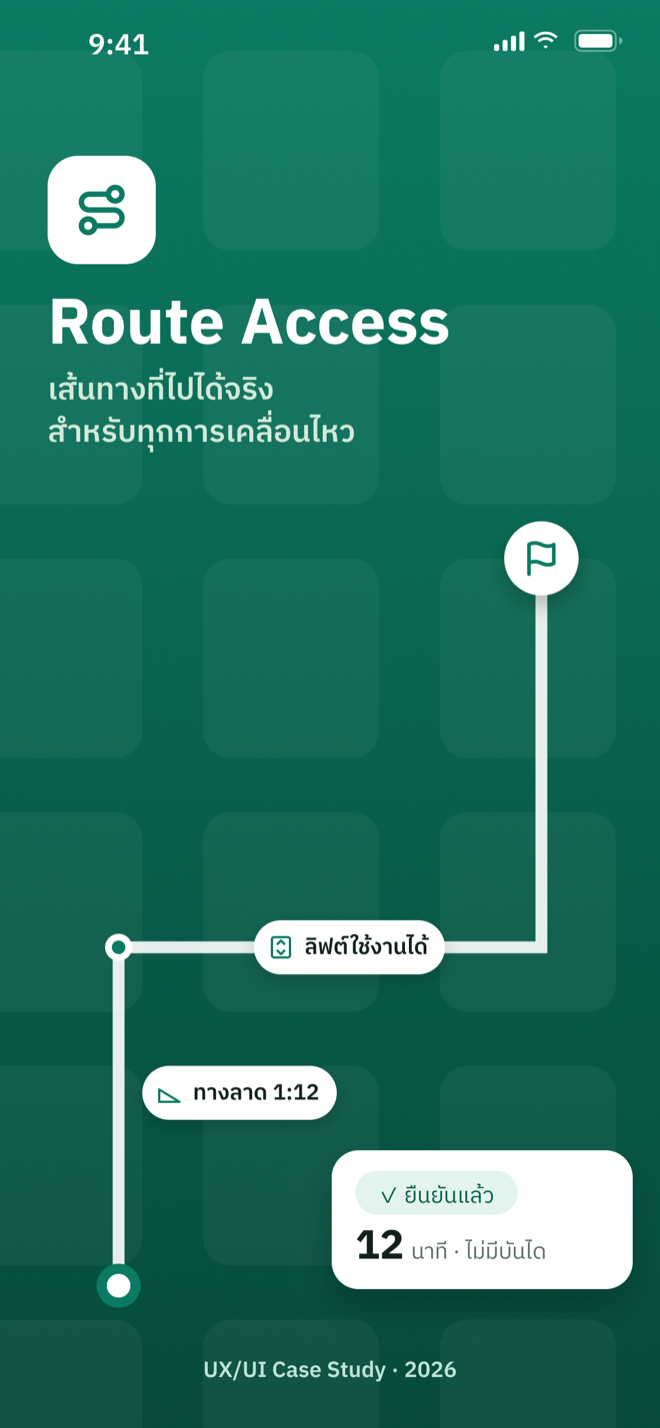
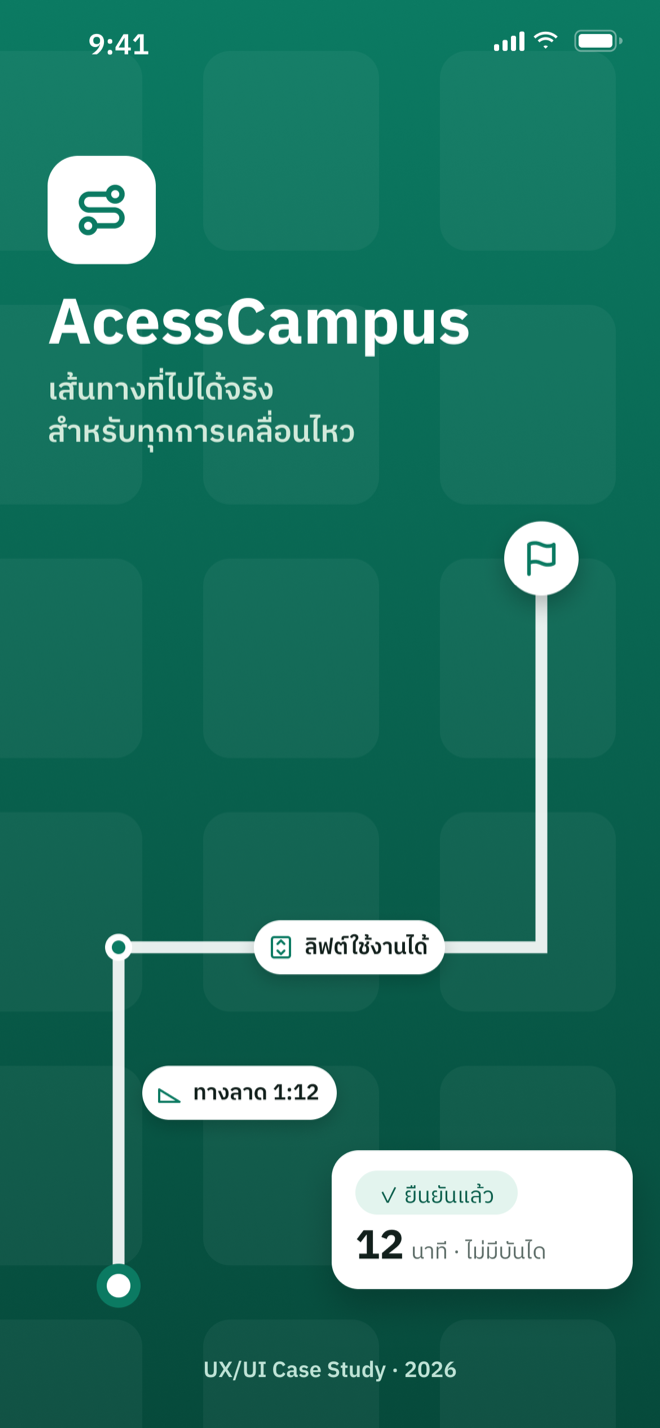
feat: complete design cards and add real work covers
- RoomieMatch: kind, year, blurb and Canva case study
- AcessCampus: new cover with the app name
- design section heading is now Case Studies; drop Open in Figma
- real 4:3 covers and alt text for both case studies

Changed region(s): [[0.0606, 0.1849, 0.7273, 0.2465]]

diff --git a/lib/designs.ts b/lib/designs.ts
@@ -3,8 +3,6 @@ export type Design = {
   title: string;
   /** prototype link, played in the phone */
   figma: string;
-  /** design file for "Open in Figma", when it differs from the prototype */
-  file?: string;
   /** research board or case study outside Figma */
   caseStudy?: string;
   tags: string[];
@@ -18,16 +16,16 @@ export const designs: Design[] = [
     slug: 'roomiematch',
     title: 'RoomieMatch',
     figma: 'https://www.figma.com/proto/XflnePuAHp00z4TEDtzwJx/RoomieMatch?node-id=25-4479&starting-point-node-id=25%3A4479',
+    caseStudy: 'https://canva.link/ag8ocmj1n9o4ffd',
     tags: ['UX/UI', 'Mobile app', 'Figma prototype'],
-    blurb: '[one line: what the app does and who it is for]',
-    year: '[year?]',
-    kind: '[class / personal / client?]',
+    blurb: 'A roommate-matching app for people looking for a roommate: find someone who fits, then find a place together.',
+    year: '2024–2025',
+    kind: 'Personal self-learning project · team of 2',
   },
   {
     slug: 'accesscampus',
     title: 'AcessCampus',
     figma: 'https://www.figma.com/proto/cw83ZV6F7lFHe9VYC0Roes/AcessCampus?node-id=31-55&starting-point-node-id=31%3A55',
-    file: 'https://www.figma.com/design/cw83ZV6F7lFHe9VYC0Roes/AcessCampus?node-id=39-5132',
     caseStudy: 'https://canva.link/e0inqgga5kdhpws',
     tags: ['UX research', 'Accessibility', 'Figma prototype'],
     blurb: 'Route for Everyone: campus routes for wheelchair users and anyone who needs a step-free way, with ramps, lifts and stairs shown before you leave.',

diff --git a/e2e/design.spec.ts b/e2e/design.spec.ts
@@ -9,13 +9,15 @@ test('design section shows RoomieMatch without loading Figma', async ({ page }) 
   const proto = s.locator('article').first().getByRole('link', { name: /Play prototype/ });
   await expect(proto).toHaveAttribute('href', /figma\.com\/proto\/XflnePuAHp00z4TEDtzwJx\//);
   await expect(proto).toHaveAttribute('target', '_blank');
+  await expect(s.locator('article').first().getByRole('link', { name: /UX case study/ })).toHaveAttribute('href', 'https://canva.link/ag8ocmj1n9o4ffd');
 });
 
-test('AcessCampus links to its Figma file and Canva case study', async ({ page }) => {
+test('AcessCampus links to its prototype and Canva case study', async ({ page }) => {
   await page.goto('/');
   const card = page.locator('#design article').nth(1);
   await expect(card.getByRole('heading', { name: 'AcessCampus' })).toBeAttached();
-  await expect(card.getByRole('link', { name: /Open in Figma/ })).toHaveAttribute('href', /figma\.com\/design\/cw83ZV6F7lFHe9VYC0Roes\//);
+  await expect(card.getByRole('link', { name: /Play prototype/ })).toHaveAttribute('href', /figma\.com\/proto\/cw83ZV6F7lFHe9VYC0Roes\/.*starting-point-node-id=31%3A55/);
+  await expect(card.getByRole('link', { name: /Open in Figma/ })).toHaveCount(0);
   await expect(card.getByRole('link', { name: /UX case study/ })).toHaveAttribute('href', 'https://canva.link/e0inqgga5kdhpws');
 });
 

diff --git a/components/FigmaCard.tsx b/components/FigmaCard.tsx
@@ -21,7 +21,6 @@ export default function FigmaCard({ design: d, cover }: { design: Design; cover:
         <p><Text value={d.blurb} /></p>
         <div className="btns">
           <a className="btn blue" href={d.figma} target="_blank" rel="noopener">▶ Play prototype ↗</a>
-          {d.file && <a className="btn" href={d.file} target="_blank" rel="noopener">Open in Figma ↗</a>}
           {d.caseStudy && <a className="btn" href={d.caseStudy} target="_blank" rel="noopener">UX case study ↗</a>}
         </div>
         <p className={`${styles.hint} hand`}>psst… it really works, tap around →</p>

diff --git a/e2e/home.spec.ts b/e2e/home.spec.ts
@@ -22,7 +22,8 @@ test('timeline lists 4 rows', async ({ page }) => {
 test('placeholder timeline roles and missing covers are flagged', async ({ page }) => {
   await page.goto('/');
   await expect(page.locator('#timeline tbody td[data-l=role] .ph')).toHaveCount(2);
-  await expect(page.locator('article').first().locator('.ph', { hasText: '[real screenshot]' })).toHaveCount(1);
+  // both Work cards have real covers now
+  await expect(page.locator('#work .ph', { hasText: '[real screenshot]' })).toHaveCount(0);
 });
 
 test('cursor ring appears with the mouse', async ({ page }, testInfo) => {

diff --git a/components/DesignWork.tsx b/components/DesignWork.tsx
@@ -8,7 +8,7 @@ export default function DesignWork() {
     <section id="design">
       <div className="wrap">
         <p className="eyebrow">made in figma</p>
-        <h2 className="h2 disp">Designs you<br />can tap through</h2>
+        <h2 className="h2 disp">Case Studies</h2>
         <Carousel label="Figma designs">
           {designs.map((d) => <FigmaCard key={d.slug} design={d} cover={hasCover(`/design/${d.slug}/cover.png`)} />)}
         </Carousel>

diff --git a/report.md b/report.md
@@ -2,14 +2,14 @@
 
 Read this file first when starting a new chat. Update it at the end of every work session.
 
-Last updated: 2026-10-28
+Last updated: 2026-11-04
 
 ## Resume here (next session)
 
-**Stopped mid-task (2026-10-28):** everything is committed and pushed. Two questions are waiting for the owner. (1) Card title for the second design: "AcessCampus" (Figma file name) or "Route Access" (app name in the screenshot)? (2) RoomieMatch kind, year and one-line description. Then continue with "Next work, in order" below.
+**Last session (2026-11-04):** everything is committed and pushed. Both Design cards and both Work covers are complete. Nothing is waiting on the owner from that session. Continue with "Next work, in order" below.
 
 **Where things stand:**
-- The site is built, reviewed and merged into `main`. Everything up to the AcessCampus design card (2026-10-28) is in `main` and pushed. Run `git log --oneline -5` for the latest commits.
+- The site is built, reviewed and merged into `main`. Everything up to the real Work covers and the completed Design cards (2026-11-04) is in `main` and pushed. Run `git log --oneline -5` for the latest commits.
 - Nothing is deployed yet.
 
 **Deploy decision (owner, 2026-10-21):**
@@ -84,12 +84,12 @@ A personal portfolio site for Thanapong Yamkamol (GitHub `thanapdev`), a student
   - B: a full editorial restyle.
   - The owner kept the current design. Do not restyle the cards or the site toward whyramachandran.design or gloriaha.com.
 - **Section order (owner, 2026-10-23; Design added 2026-10-24):** Hero → Work → Design → Timeline → About → Contact. The timeline stays next to the project cards. The nav order matches.
-- **Design work section (owner, 2026-10-24).** GitHub builds (Work) and Figma designs are separate groups.
+- **Design work section (owner, 2026-10-24).** GitHub builds (Work) and Figma designs are separate groups. Heading changed to "Case Studies" (eyebrow "made in figma") on 2026-11-04, because every piece will have a case study. The nav link still reads "Design".
   - Spec: `docs/superpowers/specs/2026-10-24-figma-design-work-design.md`. Approved look: `mockup-design-work.html`.
   - Each piece is a card with a black phone frame. Nothing from Figma loads until Play is clicked. Then the Figma embed shows inside the phone, and focus moves into it.
   - The embed is cropped to fill the phone: iframe 600×1300, screen at (73,158). If Figma changes its padding, re-measure these numbers in `components/DesignWork.module.css`.
   - Pieces: RoomieMatch, then AcessCampus (added 2026-10-28). The section is a carousel.
-  - Buttons (owner, 2026-10-28): the blue "▶ Play prototype ↗" opens the Figma prototype in a new tab; the phone's "▶ Play" plays it inline. "Open in Figma ↗" shows only when a piece has a separate design file (`file`), and "UX case study ↗" only when it has `caseStudy`.
+  - Buttons (owner, 2026-10-28): the blue "▶ Play prototype ↗" opens the Figma prototype in a new tab; the phone's "▶ Play" plays it inline. "UX case study ↗" shows when a piece has `caseStudy` (both do: Canva boards). "Open in Figma ↗" was removed on 2026-11-04 (owner).
   - AcessCampus prototype must start at the profile setup screen (owner): node `31-55`, the prototype's default flow start. The link on the owner's Canva board starts at `31-163` (home), so do not copy it from there.
 - **Cursor ring (owner, 2026-10-22).** Borrowed from whyramachandran.design (`components/CursorLabel.tsx`).
   - A small, quiet "scroll ✦ scroll ✦" ring in muted grey at 80% opacity spins slowly around the mouse.
@@ -97,6 +97,7 @@ A personal portfolio site for Thanapong Yamkamol (GitHub `thanapdev`), a student
   - The native pointer stays visible.
   - Mouse only.
   - Under reduced motion it does not spin or trail.
+- **Work cover screenshots (owner, 2026-11-04).** The cover frame stays 4:3. A wider frame matching 2880×1316 screenshots was tried and rolled back (owner: it looked ugly). Ask for screenshots at 4:3: Chrome DevTools device toolbar, Responsive 1200×900 (or 1024×768), "Capture screenshot". Trim any dark window edge before use.
 - **Carousel for Work and Design work (owner, 2026-10-24).** `components/Carousel.tsx` wraps both sections so the page stays short.
   - One card at a time, with ←/→ buttons, dots, a ⏸ button, and swipe on phones (CSS scroll-snap).
   - It auto-advances every 6 seconds and loops. The owner asked for 3 seconds, then chose 6 so HR can read a card.
@@ -138,14 +139,13 @@ Placeholders still on the real site. A production build (`VERCEL_ENV=production`
 - [ ] The problem and result of each case study (frontmatter `tldr`, plus body sections).
 - [ ] Real outcome numbers and the goal, research and caption sections in both MDX bodies.
 - [ ] Real screenshots.
-  - Covers: add `public/work/<slug>/cover.png`. The yellow "[real screenshot]" label disappears once the file exists.
+  - Covers: done for both case studies (2026-11-04).
   - BeforeAfter: replace `public/work/the-reborn-gacha/before.png` and `after.png`, then edit the caption in the MDX.
 - [ ] Resume PDF. Add `public/resume.pdf`, then change the Resume button label in `components/Contact.tsx`.
 - [ ] Role in QueueApp and in TiguS (`lib/timeline-extra.ts`).
 - [ ] Research methods on the back of the "User Research" chip.
-- [ ] RoomieMatch (`lib/designs.ts`): one-line description, year, and kind of work (class, personal, client or self-learning). The cover is done.
 - [ ] Flaky e2e under full-suite load (2026-10-28): `[mobile] carousel.spec.ts › auto-advances every 6 seconds` sometimes sees `data-autoplay="false"` for 5 s (about 2 of 9 full runs after the hover/focus split, 0 of 4 before; passes 15/15 alone; could not reproduce in 10 instrumented runs). Not yet known whether the split caused it. `intro.spec.ts › any key skips the intro` also still flakes under load. Next step: rerun with state logged (`paused/hovered/focused/inView`) until it fails.
-- [ ] AcessCampus card title: keep "AcessCampus" or change to "Route Access" (the app name in its screenshot)? Ask the owner. Kind (Self-learning project), year 2026, Canva link and cover are done.
+- [ ] Optional: RoomieMatch's Canva board lists the owner's role (problem and audience research, wireframes and annotation, about 70% of the Figma UI and interactions; features 50/50 with teammate Wiriya). Not shown on the card; offer it if the owner wants roles on design cards.
 - [ ] Optional, from the Design work review: the double-play and mobile layout tests could be stricter; the "tap around →" arrow points right on mobile where the phone is below; `figmaEmbedUrl` assumes the Figma link already has a `?`.
 
 Facts that need the owner's confirmation:
@@ -210,3 +210,5 @@ Known limits:
 - 2026-10-28: Added AcessCampus as the second Design piece (`lib/designs.ts`): prototype from node `31-55` (profile setup), the owner's Figma design link as "Open in Figma", and the Canva UX case study board (`canva.link/e0inqgga5kdhpws`) as a new "UX case study" button. Blurb written from the Concept text on that board; kind "Self-learning project" (owner); year 2026 from the Canva file date. Covers added for both designs (resized to 660px wide).
 - 2026-10-28: The blue "Play prototype" button is now a link that opens the prototype in Figma (owner asked). RoomieMatch lost its "Open in Figma" button because it pointed at the same link.
 - 2026-10-28: Fixed the carousel auto-advancing while the mouse was on it. Hover and focus shared one flag, so a blur (e.g. clicking plain text after a control) cleared the hover pause. They are now separate states in `components/Carousel.tsx`. New e2e test `stays paused while hovered after focus leaves a control` fails 4/4 on the old code and passes on the fix; it uses the real clock because the fake clock hides the bug. Removed the "single card gets no controls" test, since no carousel has one card now (the code path remains, untested). 67 e2e tests pass.
+- 2026-11-04: Completed both Design cards. RoomieMatch: "Personal self-learning project · team of 2 · 2024–2025", blurb from the owner, Canva case study `canva.link/ag8ocmj1n9o4ffd`. AcessCampus: title stays "AcessCampus" (owner), new cover with that name. Removed "Open in Figma" from both cards. Section heading is now "Case Studies".
+- 2026-11-04: Real covers for both Work cards (`public/work/*/cover.png`, 4:3 screenshots from the owner, 4px dark edge trimmed) and real `coverAlt` text. No "[real screenshot]" placeholders remain. A wider cover frame was tried and rolled back. Lint, typecheck and e2e pass.
